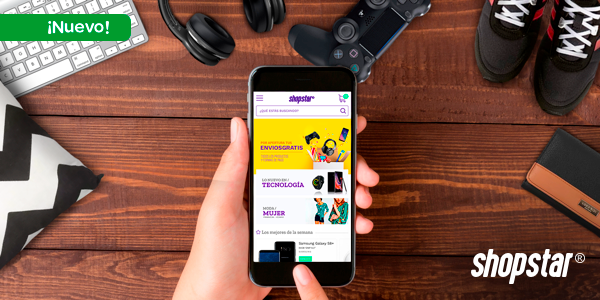
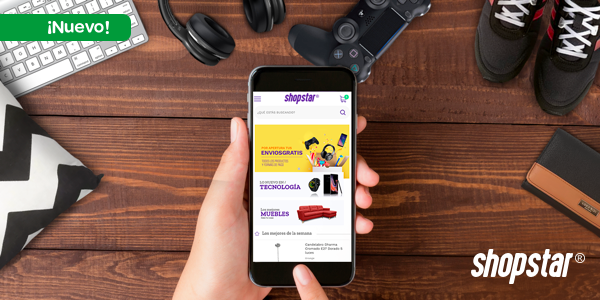
se creo html

diff --git a/HTML3/index.html b/HTML3/index.html
@@ -100,14 +100,14 @@
                     <table border="0" cellspacing="0" cellpadding="0" class="principal" style="margin:auto; width:100%; max-width:600px; font-family:Arial, Helvetica, sans-serif; border-collapse: collapse;">
                         <tr>
                             <td height="auto">
-                                <table width="100%" border="0" cellpadding="0" cellspacing="0" style="background-color: #00a94f;">
+                                <table width="100%" border="0" cellpadding="0" cellspacing="0" style="background-color: #5822a0;">
                                     <tbody>
                                     	<tr>
-	                                        <td style="width: 50px;" class="mobile-margen"></td>
+	                                        <td style="width: 45px;" class="mobile-margen"></td>
 	                                        <td height="70" valign="middle" align="left">
-	                                            <img alt="Interbank" border="0" hspace="0" vspace="0" width="162" height="30" style="border: 0px; display: block; color: #333333; font-size: 13px; font-family: Arial, Helvetica, sans-serif; height: auto; max-width:100%; width: 162px; height: auto; max-width: 100%;" src="Interbank.png">
+	                                            <img alt="shopstar" border="0" hspace="0" vspace="0" width="260" style="border: 0px; display: block; color: #333333; font-size: 13px; font-family: Arial, Helvetica, sans-serif; height: auto; max-width:100%; width: 260px; height: auto;" src="shopstar.png">
 	                                        </td>
-	                                        <td style="width: 50px;" class="mobile-margen"></td>
+	                                        <td style="width: 45px;" class="mobile-margen"></td>
                                     	</tr>
                                 	</tbody>
                             	</table>
@@ -138,7 +138,7 @@
 	                                        <td valign="top">
 	                                            <div style="font-family: Arial, Helvetica, sans-serif; font-size: 24px; color: #333333; text-align: left; font-weight: normal; line-height: 35px;">
 	                                                Hola {Valor_1},<br>
-	                                                &iexcl;Encuentra todo lo que necesitas en <font style="    font-weight: bold;color: #00a54f;">shopstar.pe!</font>
+	                                                ¡Te presentamos <font style="font-weight: bold;color: #5822a0;">shopstar.pe</font>, la nueva tienda online de Interbank!
 	                                            </div>
 	                                        </td>
 	                                        <td style="width: 50px;" class="mobile-margen"></td>
@@ -150,7 +150,7 @@
 	                                        <td style="width: 50px;" class="mobile-margen"></td>
 	                                        <td>
 	                                            <div style="font-family: Arial, Helvetica, sans-serif; font-size: 16px; color: #333333; text-align: left; font-weight: normal; line-height: 24px;">
-	                                            	Por lanzamiento y durante todo <font style="font-weight:bold;">noviembre</font>	tus compras vienen con <font style="font-weight:bold;">env&iacute;o gratis.</font>
+	                                            	Por lanzamiento y durante todo <font style="font-weight:bold;color:#5822a0;">noviembre</font>	tus compras vienen con <font style="font-weight:bold;color:#5822a0;">env&iacute;o gratis.</font>
 	                                            </div>
 	                                        </td>
 	                                        <td style="width: 50px;" class="mobile-margen"></td>
@@ -173,7 +173,7 @@
 		                                        	Ingresa a:
 		                                        </div>
 		                                        <div style="font-family: Arial; font-size: 20px; color: #333333; text-align: center; line-height: 30px; font-weight: bold;color: #00a54f;">
-		                                        	<span style="font-weight: bold; color: #00A64F;">
+		                                        	<span style="font-weight: bold; color: #5822a0;">
 		                                        		www.shopstar.pe
 		                                        	</span>
 		                                        </div>
@@ -224,7 +224,7 @@
                                             </tr>
                                             <tr>
                                                 <td width="50" valign="middle" align="left" class="mobile-vmiddle">
-                                                    <img alt="Paga la diferencia" border="0" hspace="0" align="center" vspace="0" src="ico_2.png" style="border: 0px; display: block; vertical-align: top; height: auto; margin: 0; font-size: 0px; width: 40px; max-width: 100%;">
+                                                    <img alt="Paga la diferencia" border="0" hspace="0" align="center" vspace="0" src="ico_2.png" style="border: 0px; display: block; vertical-align: top; height: auto; margin: 0; font-size: 0px; max-width: 100%;">
                                                 </td>
                                                 <td valign="middle" align="left">
                                                     <font style="font-size: 14px; line-height: 24px;">

diff --git a/HTML2/index.html b/HTML2/index.html
@@ -137,7 +137,7 @@
 	                                        <td style="width: 50px;" class="mobile-margen"></td>
 	                                        <td valign="top">
 	                                            <div style="font-family: Arial, Helvetica, sans-serif; font-size: 24px; color: #333333; text-align: left; font-weight: normal; line-height: 35px;">
-	                                                Hola Pedro,<br>
+	                                                Hola {Valor_1},<br>
 	                                                Encuentra <font style="font-weight: bold;color: #00a54f;">todo Tecnolog&iacute;a </font>en un solo lugar con shopstar.pe.
 	                                            </div>
 	                                        </td>
@@ -173,9 +173,9 @@
 		                                        	Ingresa a:
 		                                        </div>
 		                                        <div style="font-family: Arial; font-size: 20px; color: #333333; text-align: center; line-height: 30px; font-weight: bold;color: #00a54f;">
-		                                        	<a href="https://www.mercury.com" target="_blank" title="www.mercury.com" style="font-weight: bold; color: #00A64F; text-decoration: none; border: 0; cursor: pointer;">
+		                                        	<span style="font-weight: bold; color: #00A64F;">
 		                                        		www.shopstar.pe
-		                                        	</a>
+		                                        	</span>
 		                                        </div>
 		                                    </td>
 		                                    <td style="width: 50px;" class="mobile-margen"></td>
@@ -511,7 +511,7 @@
 	                                                </td>
 	                                                <td valign="middle" align="left">
 	                                                    <font style="font-size: 14px; line-height: 24px;">
-	                                                    	Una experiencia respalda por Interbank
+	                                                    	Una experiencia respalda por Interbank.
 	                                                    </font>
 	                                                </td>
 	                                            </tr>
@@ -524,7 +524,7 @@
 	                                                </td>
 	                                                <td valign="middle" align="left">
 	                                                    <font style="font-size: 14px; line-height: 24px;">
-	                                                    	Lo mejor de grandes marcas
+	                                                    	Lo mejor de grandes marcas.
 	                                                	</font>
 	                                                </td>
 	                                            </tr>
